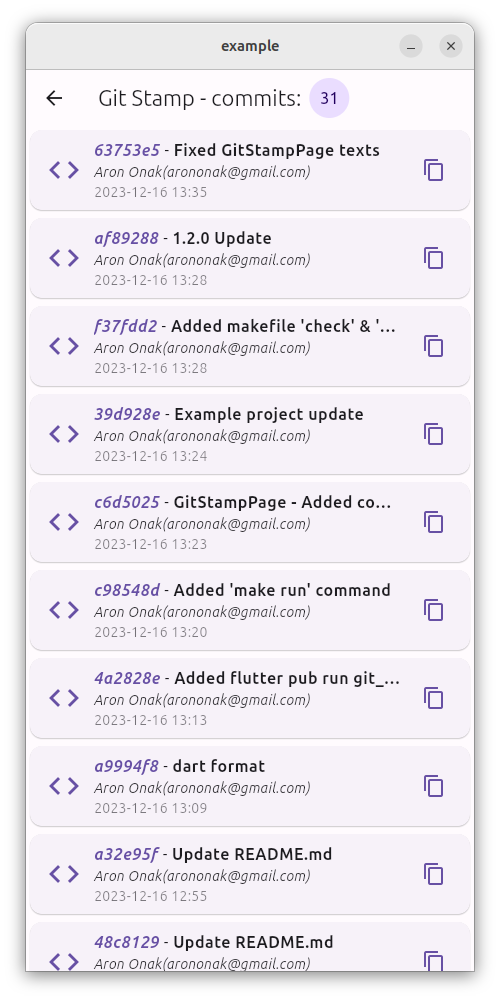
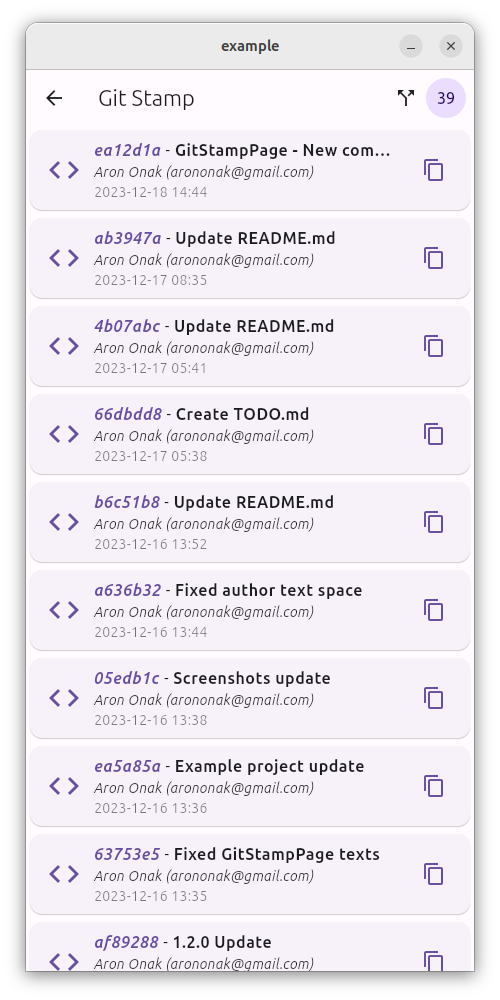
New screenshots & example project update

diff --git a/example/lib/git_stamp/git_stamp_json_output.dart b/example/lib/git_stamp/git_stamp_json_output.dart
@@ -1,3 +1,3 @@
 const jsonOutput = '''
-[{"hash":"63753e5e62c22c2d53d71549bba6b8c730e2fbdd","subject":"Fixed GitStampPage texts","date":"2023-12-16 13:35","authorName":"Aron Onak","authorEmail":"arononak@gmail.com"},{"hash":"af8928842db9af09c0db2f2360f01fd278a5d584","subject":"1.2.0 Update","date":"2023-12-16 13:28","authorName":"Aron Onak","authorEmail":"arononak@gmail.com"},{"hash":"f37fdd2cae88d0f76dd312fcdff487a9ba1f6fb5","subject":"Added makefile 'check' & 'publish' commands","date":"2023-12-16 13:28","authorName":"Aron Onak","authorEmail":"arononak@gmail.com"},{"hash":"39d928e31f2924f5bd59dc7be883d2164617669d","subject":"Example project update","date":"2023-12-16 13:24","authorName":"Aron Onak","authorEmail":"arononak@gmail.com"},{"hash":"c6d50253b1b640bb68ca8a1002fabf8e1f886e61","subject":"GitStampPage - Added commit count number","date":"2023-12-16 13:23","authorName":"Aron Onak","authorEmail":"arononak@gmail.com"},{"hash":"c98548deca80a82cb833d96cd3cc470c04c0292a","subject":"Added 'make run' command","date":"2023-12-16 13:20","authorName":"Aron Onak","authorEmail":"arononak@gmail.com"},{"hash":"4a2828e6968e0952c162d31362cff7ef6c0d59cd","subject":"Added flutter pub run git_stamp:generate.dart dart format . Formatted lib/git_stamp/git_stamp_commit.dart Formatted lib/git_stamp/git_stamp_json_output.dart Formatted lib/git_stamp/git_stamp_page.dart Formatted 4 files (3 changed) in 0.18 seconds. command","date":"2023-12-16 13:13","authorName":"Aron Onak","authorEmail":"arononak@gmail.com"},{"hash":"a9994f8be35c819193db1fb89d6559b17acfd641","subject":"dart format","date":"2023-12-16 13:09","authorName":"Aron Onak","authorEmail":"arononak@gmail.com"},{"hash":"a32e95fb9c361c4ba96ffe3958edcb1f270d9f3f","subject":"Update README.md","date":"2023-12-16 12:55","authorName":"Aron Onak","authorEmail":"arononak@gmail.com"},{"hash":"48c8129d28648ff9b98ae42392f40f25c673ecd3","subject":"Update README.md","date":"2023-12-16 12:39","authorName":"Aron Onak","authorEmail":"arononak@gmail.com"},{"hash":"97a20b429cb9aa7fadc0981823d04508878c1ef9","subject":"Update generate.dart","date":"2023-12-15 15:05","authorName":"Aron Onak","authorEmail":"arononak@gmail.com"},{"hash":"faa0515f1f21c61a1b7c684ea1644ca95ec89195","subject":"Updated CHANGELOG.md","date":"2023-12-15 14:55","authorName":"Aron Onak","authorEmail":"arononak@gmail.com"},{"hash":"9cb2abaeca7d1d3b6353ae53fd94103c525a3ffb","subject":"Updated docs","date":"2023-12-15 14:52","authorName":"Aron Onak","authorEmail":"arononak@gmail.com"},{"hash":"0535be348d6b9283770a0f6e137f3f19adbfe1eb","subject":"Example - Added desktop support","date":"2023-12-15 14:48","authorName":"Aron Onak","authorEmail":"arononak@gmail.com"},{"hash":"05c7b0266c01904551f79cdcb04441c96441918b","subject":"Example update","date":"2023-12-15 14:48","authorName":"Aron Onak","authorEmail":"arononak@gmail.com"},{"hash":"a1e62f0e8033cb6f87c18b5a98000feefb501729","subject":"New card style - fix","date":"2023-12-15 14:30","authorName":"Aron Onak","authorEmail":"arononak@gmail.com"},{"hash":"fcf30984c6ffd2dff89dc7c1c1d9a432940217c9","subject":"New card style","date":"2023-12-15 14:26","authorName":"Aron Onak","authorEmail":"arononak@gmail.com"},{"hash":"cd0c6432ae1a1abbfcf357b8410be784566763b8","subject":"1.0.1 Update","date":"2023-12-13 03:34","authorName":"Aron Onak","authorEmail":"arononak@gmail.com"},{"hash":"244b321f3e564f277202a68d0d187eb5f3d39aac","subject":"Added lint 2/2","date":"2023-12-13 02:47","authorName":"Aron Onak","authorEmail":"arononak@gmail.com"},{"hash":"f050665ab9f8ebf9d12ebf55be0f5f7f5c36f74f","subject":"Added lint","date":"2023-12-13 02:40","authorName":"Aron Onak","authorEmail":"arononak@gmail.com"},{"hash":"85e0fb47aa05f2cc8bd7b53d350d4925dae317fc","subject":"Added example","date":"2023-12-13 00:55","authorName":"Aron Onak","authorEmail":"arononak@gmail.com"},{"hash":"f00715ef332a48e8e218dacb9a7dff4c777eb136","subject":"Updated files.png","date":"2023-12-13 00:40","authorName":"Aron Onak","authorEmail":"arononak@gmail.com"},{"hash":"9be3360170d13e600392dc089755ee2cff90ae70","subject":"Update README.md","date":"2023-12-12 08:44","authorName":"Aron Onak","authorEmail":"arononak@gmail.com"},{"hash":"e9d298f5bf99eb00c8b88d2a9e8da18e2d74cceb","subject":"Added CHANGELOG.md","date":"2023-12-12 08:25","authorName":"Aron Onak","authorEmail":"arononak@gmail.com"},{"hash":"19a7340a833cff19c43cdf8fc689b59caef2f243","subject":"Updated pubspec.yaml","date":"2023-12-12 08:24","authorName":"Aron Onak","authorEmail":"arononak@gmail.com"},{"hash":"b7eb795cf19a885941414f54849f9816602c83f5","subject":"Update README.md","date":"2023-12-12 07:24","authorName":"Aron Onak","authorEmail":"arononak@gmail.com"},{"hash":"9b69ae64422d5df070fca313a8b41b42b2472d52","subject":"Add files via upload","date":"2023-12-12 07:18","authorName":"Aron Onak","authorEmail":"arononak@gmail.com"},{"hash":"a447afe7e522678207ae8b45fcb48bd0250bf19b","subject":"Create README.md","date":"2023-12-12 07:17","authorName":"Aron Onak","authorEmail":"arononak@gmail.com"},{"hash":"c32f7852e67a5179b86926240f0760b8f76592b3","subject":"Added file generator fix","date":"2023-12-12 06:12","authorName":"Aron Onak","authorEmail":"arononak@gmail.com"},{"hash":"0e3e69a6ea7d25adb19d40c95e9e3590006db7ef","subject":"Added file generator","date":"2023-12-12 05:44","authorName":"Aron Onak","authorEmail":"arononak@gmail.com"},{"hash":"3e66c39e9d7eb6a81433a28eb24e54f4e128bce2","subject":"Initial commit","date":"2023-12-11 21:03","authorName":"Aron Onak","authorEmail":"arononak@gmail.com"}]
+[{"hash":"ea12d1a95acd74585c3300e4c7ef6e02e66db91f","subject":"GitStampPage - New commit count design","date":"2023-12-18 14:44","authorName":"Aron Onak","authorEmail":"arononak@gmail.com"},{"hash":"ab3947a1cf7a9a55924bb839790bfb03e4edae6a","subject":"Update README.md","date":"2023-12-17 08:35","authorName":"Aron Onak","authorEmail":"arononak@gmail.com"},{"hash":"4b07abc24dab1f40f89845d76d1b980a018f6f12","subject":"Update README.md","date":"2023-12-17 05:41","authorName":"Aron Onak","authorEmail":"arononak@gmail.com"},{"hash":"66dbdd83ad8f2740b018a9e363a28333caa292da","subject":"Create TODO.md","date":"2023-12-17 05:38","authorName":"Aron Onak","authorEmail":"arononak@gmail.com"},{"hash":"b6c51b83dea81bb73382e0ede85c2f585bece34b","subject":"Update README.md","date":"2023-12-16 13:52","authorName":"Aron Onak","authorEmail":"arononak@gmail.com"},{"hash":"a636b3267378fbbe82d1a87f84621e938aca6dab","subject":"Fixed author text space","date":"2023-12-16 13:44","authorName":"Aron Onak","authorEmail":"arononak@gmail.com"},{"hash":"05edb1cb28f1b5eb6acd54b0132ac4dce08fe102","subject":"Screenshots update","date":"2023-12-16 13:38","authorName":"Aron Onak","authorEmail":"arononak@gmail.com"},{"hash":"ea5a85a6708c6efde6c27a660ea5d0d2df9b8018","subject":"Example project update","date":"2023-12-16 13:36","authorName":"Aron Onak","authorEmail":"arononak@gmail.com"},{"hash":"63753e5e62c22c2d53d71549bba6b8c730e2fbdd","subject":"Fixed GitStampPage texts","date":"2023-12-16 13:35","authorName":"Aron Onak","authorEmail":"arononak@gmail.com"},{"hash":"af8928842db9af09c0db2f2360f01fd278a5d584","subject":"1.2.0 Update","date":"2023-12-16 13:28","authorName":"Aron Onak","authorEmail":"arononak@gmail.com"},{"hash":"f37fdd2cae88d0f76dd312fcdff487a9ba1f6fb5","subject":"Added makefile 'check' & 'publish' commands","date":"2023-12-16 13:28","authorName":"Aron Onak","authorEmail":"arononak@gmail.com"},{"hash":"39d928e31f2924f5bd59dc7be883d2164617669d","subject":"Example project update","date":"2023-12-16 13:24","authorName":"Aron Onak","authorEmail":"arononak@gmail.com"},{"hash":"c6d50253b1b640bb68ca8a1002fabf8e1f886e61","subject":"GitStampPage - Added commit count number","date":"2023-12-16 13:23","authorName":"Aron Onak","authorEmail":"arononak@gmail.com"},{"hash":"c98548deca80a82cb833d96cd3cc470c04c0292a","subject":"Added 'make run' command","date":"2023-12-16 13:20","authorName":"Aron Onak","authorEmail":"arononak@gmail.com"},{"hash":"4a2828e6968e0952c162d31362cff7ef6c0d59cd","subject":"Added flutter pub run git_stamp:generate.dart dart format . Formatted lib/git_stamp/git_stamp_commit.dart Formatted lib/git_stamp/git_stamp_json_output.dart Formatted lib/git_stamp/git_stamp_page.dart Formatted 4 files (3 changed) in 0.18 seconds. command","date":"2023-12-16 13:13","authorName":"Aron Onak","authorEmail":"arononak@gmail.com"},{"hash":"a9994f8be35c819193db1fb89d6559b17acfd641","subject":"dart format","date":"2023-12-16 13:09","authorName":"Aron Onak","authorEmail":"arononak@gmail.com"},{"hash":"a32e95fb9c361c4ba96ffe3958edcb1f270d9f3f","subject":"Update README.md","date":"2023-12-16 12:55","authorName":"Aron Onak","authorEmail":"arononak@gmail.com"},{"hash":"48c8129d28648ff9b98ae42392f40f25c673ecd3","subject":"Update README.md","date":"2023-12-16 12:39","authorName":"Aron Onak","authorEmail":"arononak@gmail.com"},{"hash":"97a20b429cb9aa7fadc0981823d04508878c1ef9","subject":"Update generate.dart","date":"2023-12-15 15:05","authorName":"Aron Onak","authorEmail":"arononak@gmail.com"},{"hash":"faa0515f1f21c61a1b7c684ea1644ca95ec89195","subject":"Updated CHANGELOG.md","date":"2023-12-15 14:55","authorName":"Aron Onak","authorEmail":"arononak@gmail.com"},{"hash":"9cb2abaeca7d1d3b6353ae53fd94103c525a3ffb","subject":"Updated docs","date":"2023-12-15 14:52","authorName":"Aron Onak","authorEmail":"arononak@gmail.com"},{"hash":"0535be348d6b9283770a0f6e137f3f19adbfe1eb","subject":"Example - Added desktop support","date":"2023-12-15 14:48","authorName":"Aron Onak","authorEmail":"arononak@gmail.com"},{"hash":"05c7b0266c01904551f79cdcb04441c96441918b","subject":"Example update","date":"2023-12-15 14:48","authorName":"Aron Onak","authorEmail":"arononak@gmail.com"},{"hash":"a1e62f0e8033cb6f87c18b5a98000feefb501729","subject":"New card style - fix","date":"2023-12-15 14:30","authorName":"Aron Onak","authorEmail":"arononak@gmail.com"},{"hash":"fcf30984c6ffd2dff89dc7c1c1d9a432940217c9","subject":"New card style","date":"2023-12-15 14:26","authorName":"Aron Onak","authorEmail":"arononak@gmail.com"},{"hash":"cd0c6432ae1a1abbfcf357b8410be784566763b8","subject":"1.0.1 Update","date":"2023-12-13 03:34","authorName":"Aron Onak","authorEmail":"arononak@gmail.com"},{"hash":"244b321f3e564f277202a68d0d187eb5f3d39aac","subject":"Added lint 2/2","date":"2023-12-13 02:47","authorName":"Aron Onak","authorEmail":"arononak@gmail.com"},{"hash":"f050665ab9f8ebf9d12ebf55be0f5f7f5c36f74f","subject":"Added lint","date":"2023-12-13 02:40","authorName":"Aron Onak","authorEmail":"arononak@gmail.com"},{"hash":"85e0fb47aa05f2cc8bd7b53d350d4925dae317fc","subject":"Added example","date":"2023-12-13 00:55","authorName":"Aron Onak","authorEmail":"arononak@gmail.com"},{"hash":"f00715ef332a48e8e218dacb9a7dff4c777eb136","subject":"Updated files.png","date":"2023-12-13 00:40","authorName":"Aron Onak","authorEmail":"arononak@gmail.com"},{"hash":"9be3360170d13e600392dc089755ee2cff90ae70","subject":"Update README.md","date":"2023-12-12 08:44","authorName":"Aron Onak","authorEmail":"arononak@gmail.com"},{"hash":"e9d298f5bf99eb00c8b88d2a9e8da18e2d74cceb","subject":"Added CHANGELOG.md","date":"2023-12-12 08:25","authorName":"Aron Onak","authorEmail":"arononak@gmail.com"},{"hash":"19a7340a833cff19c43cdf8fc689b59caef2f243","subject":"Updated pubspec.yaml","date":"2023-12-12 08:24","authorName":"Aron Onak","authorEmail":"arononak@gmail.com"},{"hash":"b7eb795cf19a885941414f54849f9816602c83f5","subject":"Update README.md","date":"2023-12-12 07:24","authorName":"Aron Onak","authorEmail":"arononak@gmail.com"},{"hash":"9b69ae64422d5df070fca313a8b41b42b2472d52","subject":"Add files via upload","date":"2023-12-12 07:18","authorName":"Aron Onak","authorEmail":"arononak@gmail.com"},{"hash":"a447afe7e522678207ae8b45fcb48bd0250bf19b","subject":"Create README.md","date":"2023-12-12 07:17","authorName":"Aron Onak","authorEmail":"arononak@gmail.com"},{"hash":"c32f7852e67a5179b86926240f0760b8f76592b3","subject":"Added file generator fix","date":"2023-12-12 06:12","authorName":"Aron Onak","authorEmail":"arononak@gmail.com"},{"hash":"0e3e69a6ea7d25adb19d40c95e9e3590006db7ef","subject":"Added file generator","date":"2023-12-12 05:44","authorName":"Aron Onak","authorEmail":"arononak@gmail.com"},{"hash":"3e66c39e9d7eb6a81433a28eb24e54f4e128bce2","subject":"Initial commit","date":"2023-12-11 21:03","authorName":"Aron Onak","authorEmail":"arononak@gmail.com"}]
 ''';

diff --git a/example/lib/git_stamp/git_stamp_page.dart b/example/lib/git_stamp/git_stamp_page.dart
@@ -20,14 +20,23 @@ class GitStampPage extends StatelessWidget {
   Widget build(BuildContext context) {
     return Scaffold(
       appBar: AppBar(
-        title: Row(
-          children: [
-            Text('Git Stamp - commits:'),
-            SizedBox(width: 8),
-            CircleAvatar(
-              child: Text(GitStampCommit.commitList.length.toString()),
+        title: const Text('Git Stamp'),
+        flexibleSpace: Center(
+          child: SafeArea(
+            child: Padding(
+              padding: const EdgeInsets.all(8.0),
+              child: Row(
+                mainAxisAlignment: MainAxisAlignment.end,
+                children: [
+                  const Icon(Icons.call_split),
+                  const SizedBox(width: 8),
+                  CircleAvatar(
+                    child: Text(GitStampCommit.commitList.length.toString()),
+                  ),
+                ],
+              ),
             ),
-          ],
+          ),
         ),
       ),
       body: ListView.builder(
@@ -37,9 +46,9 @@ class GitStampPage extends StatelessWidget {
 
           return Card(
             child: Padding(
-              padding: EdgeInsets.symmetric(horizontal: 16),
+              padding: const EdgeInsets.symmetric(horizontal: 16),
               child: ListTile(
-                contentPadding: EdgeInsets.all(0),
+                contentPadding: const EdgeInsets.all(0),
                 leading: Icon(
                   Icons.code,
                   size: 36,
@@ -56,13 +65,13 @@ class GitStampPage extends StatelessWidget {
                           fontStyle: FontStyle.italic,
                         ),
                       ),
-                      TextSpan(
+                      const TextSpan(
                         text: ' - ',
                         style: TextStyle(fontWeight: FontWeight.normal),
                       ),
                       TextSpan(
                         text: commit.subject,
-                        style: TextStyle(fontWeight: FontWeight.bold),
+                        style: const TextStyle(fontWeight: FontWeight.bold),
                       ),
                     ],
                   ),
@@ -73,7 +82,8 @@ class GitStampPage extends StatelessWidget {
                   crossAxisAlignment: CrossAxisAlignment.start,
                   children: [
                     Text(
-                      commit.authorName + '(' + commit.authorEmail + ')',
+                      // ignore: prefer_interpolation_to_compose_strings
+                      commit.authorName + ' (' + commit.authorEmail + ')',
                       style: TextStyle(
                         color: Theme.of(context).colorScheme.onSurface,
                         fontStyle: FontStyle.italic,
@@ -108,6 +118,6 @@ class GitStampPage extends StatelessWidget {
   void _copyToClipboard(BuildContext context, String text) {
     Clipboard.setData(ClipboardData(text: text));
     ScaffoldMessenger.of(context)
-        .showSnackBar(SnackBar(content: const Text('Copied to clipboard !')));
+        .showSnackBar(const SnackBar(content: Text('Copied to clipboard !')));
   }
 }
